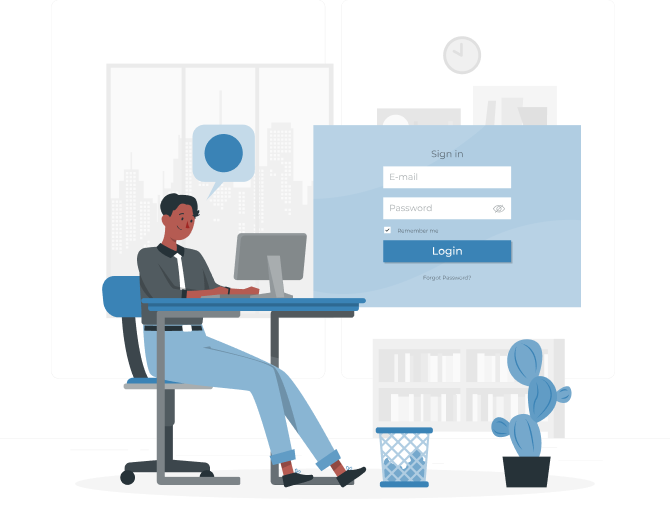
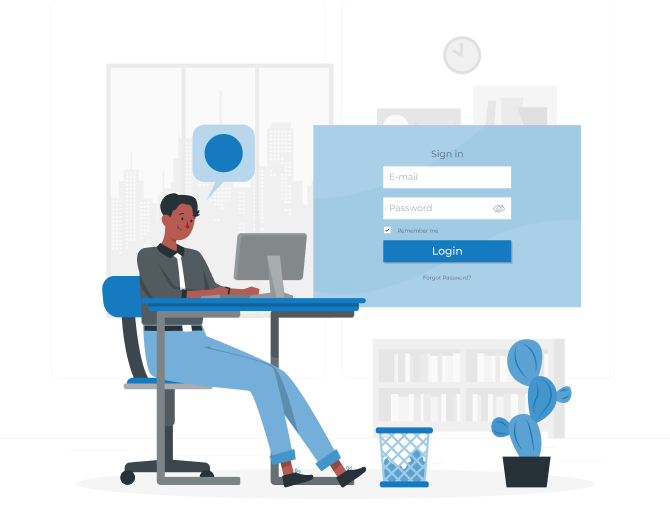
memperbaiki tampilan dashboard

diff --git a/assets/css/login.css b/assets/css/login.css
@@ -4,17 +4,29 @@
     padding: 0;
     box-sizing: border-box;
     font-family: "Inter",sans-serif;
-    background-color: #fdfff9;
+    overflow: hidden;
+}
+:root{
+    --background:#fdfff9;
+    --primary:#157ABF;
+    --accent:#BDD1FF;
+    --text:#252528;
+    --sidebar-color:#ffffff;
+    --bg-card:#fefefe;
+}
+body {
+    min-height: 100vh;
+    background-color: var(--background);
 }
 .navbar{
-    background-color: #fdfff9;
+    background-color: var(--background);
     box-shadow: 0px 4px 4px rgba(0, 0, 0, 0.25);
     padding: 10px 50px;
 }
 .navbar-brand{
     font-size: 32px;
     font-weight: 700;
-    color: #3A83B6;
+    color: var(--primary);
 }
 .container-content{
     margin: 0px 100px;
@@ -22,7 +34,7 @@
 .toggle{
     display: flex;
     align-items: center;
-    color:#3A83B6;
+    color:var(--primary);
     margin-right: 1rem;
 }
 input[type=checkbox]{
@@ -48,7 +60,7 @@ input[type=checkbox]{
     left: 5px;
     width: 10px;
     height: 10px;
-    background:#3A83B6;
+    background:var(--primary);
     border-radius: 50px;
     transition: 0.1s;
 }
@@ -80,7 +92,7 @@ input:checked + .switch::after{
     padding: 14px;
 }
 .btn-eyes{
-    background-color: #3A83B6;
+    background-color: var(--primary);
     border: none;
     padding: 0px 15px;
     border-radius: 5px;
@@ -92,9 +104,15 @@ input:checked + .switch::after{
 }
 .btn-sign-in{
     padding: 10px 30px;
-    background-color: #3A83B6;
+    background-color: var(--primary);
     border: none;
     border-radius: 8px;
+    color: #fdfff9;
+}
+.link-text {
+    text-decoration: none;
+    margin-left: 1rem;
+    color: #157ABF;
 }
 @media screen and (max-width: 768px){
     .container-content{

diff --git a/application/views/auth/registration.php b/application/views/auth/registration.php
@@ -1,0 +1,31 @@
+<!-- register -->
+<div class="container-content py-1">
+            <div class="row login p-5">
+                <div class="col-12 col-lg-6">
+                    <img src="<?= base_url('assets/img/Registration.png')?>" alt="computer_login" class="img-fluid">
+                </div>
+                <div class="col-12 col-lg-6 mb-3">
+                    <h1 class="title-login">Sign Up</h1>
+                    <form action="<?= base_url('auth/registration')?>" method="post">
+                        <div class="mb-3">
+                            <input type="name" class="form-control" id="name" placeholder="Enter Your Name" name="name">
+                        </div>
+                        <div class="mb-3">
+                            <input type="email" class="form-control" id="email" placeholder="Enter Your Email" name="email">
+                        </div>
+                        <div class="mb-3 row">
+                            <div class="col-sm-6">
+                                <input type="password" class="form-control" id="password1" placeholder="Password" name="password1">
+                            </div>
+                            <div class="col-sm-6">
+                                <input type="password" class="form-control" id="password2" placeholder="Repeat Password" name="password2">
+                            </div>
+                        </div>
+                    </form>
+                    <div class="submit d-flex justify-content-between align-items-center">
+                        <button type="submit" class="btn-sign-in d-block">Create Account</button>
+                        <a href="#" class="link-text">Already have account? Login!</a>
+                    </div>
+                </div>
+            </div>
+     <!-- register -->

diff --git a/application/views/templates/topbar.php b/application/views/templates/topbar.php
@@ -1,0 +1,31 @@
+<!-- topbar -->
+<section class="p-4 my-container">
+        <nav class="navbar bg-nav sticky-top">
+            <div class="container-fluid">
+                <div class="navbar-left">
+                    <button class="btn-menu" id="menu-btn"><i class='bx bx-menu bx-sm'></i></button>
+                    <form class="d-flex" role="search">
+                        <input class="form-control rounded-4" type="search" placeholder="Search" aria-label="Search">
+                        <button class="btn-search" type="submit"><i class='bx bx-search bx-sm' style="color:#fff;"></i></button>
+                    </form>
+                </div>
+                <div class="navbar-right">
+                    <div class="toggle">
+                        <i class='bx bx-moon bx-sm'></i>
+                        <input type="checkbox" id="switch">
+                        <label for="switch" class="switch" onclick="ubahMode()"></label>
+                    </div>
+                    <i class='bx bx-bell bx-sm bell'></i>
+                    <div class="dropdown">
+                        <button class="dropdown-toggle" type="button" data-bs-toggle="dropdown" aria-expanded="false">
+                            Admin
+                        </button>
+                        <ul class="dropdown-menu">
+                          <li><a class="dropdown-item" href="#">Profile</a></li>
+                          <li><a class="dropdown-item" href="#">Settings</a></li>
+                          <li><a class="dropdown-item" href="#">Log Out</a></li>
+                        </ul>
+                    </div>
+                </div>
+            </div>
+          </nav>

diff --git a/application/views/templates/sidebar.php b/application/views/templates/sidebar.php
@@ -1,0 +1,16 @@
+<!-- Sidebar -->
+    <div class="sidebar d-flex flex-column align-item-start" id="sidebar">
+        <h1 class="side-brand">Shoez.</h1>
+        <ul class="side-nav d-flex flex-column">
+            <li class="side-item"><a href="#" class="side-link active"><i class='bx bxs-dashboard icon-dash'></i>Dashboard</a></li>
+            <li class="side-item"><a href="#" class="side-link"><i class='bx bxs-category icon-dash'></i>Categories</a></li>
+            <li class="side-item"><a href="#" class="side-link"><i class='bx bxs-package icon-dash'></i>Product</a></li>
+            <li class="side-item"><a href="#" class="side-link"><i class='bx bxs-truck icon-dash'></i>Order</a></li>
+        </ul>
+        <div class="border-bottom m-3"></div>
+        <ul class="side-nav d-flex flex-column">
+            <li class="side-item"><a href="#" class="side-link"><i class='bx bxs-cog icon-dash'></i>Setting</a></li>
+            <li class="side-item"><a href="#" class="side-link"><i class='bx bxs-log-out icon-dash'></i>Log Out</a></li>
+        </ul>
+    </div>
+    <!-- Sidebar -->

diff --git a/application/views/auth/login.php b/application/views/auth/login.php
@@ -19,10 +19,11 @@
                         <div class="mb-3 forpass">
                             <span><a href="">Forgot Password</a></span>
                         </div>
-                        <div class="sign-in-apps d-flex">
+                        <div class="d-flex justify-content-between align-items-center">
                             <button type="submit" class="btn-sign-in">Sign In</button>
+                            <a href="#" class="link-text">Don't have account? Sign Up!</a>
                         </div>
                     </form>
                 </div>
             </div>
-     <!-- login  -->
+     <!-- login -->

diff --git a/application/views/templates/footer_dashbo.php b/application/views/templates/footer_dashbo.php
@@ -1,0 +1,7 @@
+    <script src="https://cdn.jsdelivr.net/npm/@popperjs/core@2.11.7/dist/umd/popper.min.js" integrity="sha384-zYPOMqeu1DAVkHiLqWBUTcbYfZ8osu1Nd6Z89ify25QV9guujx43ITvfi12/QExE" crossorigin="anonymous"></script>
+    <script src="https://cdn.jsdelivr.net/npm/bootstrap@5.3.0-alpha3/dist/js/bootstrap.min.js" integrity="sha384-Y4oOpwW3duJdCWv5ly8SCFYWqFDsfob/3GkgExXKV4idmbt98QcxXYs9UoXAB7BZ" crossorigin="anonymous"></script>
+    <script src="https://cdn.jsdelivr.net/npm/chart.js"></script>
+    <script src="<?php echo base_url('assets/js/dashboard.js')?>"></script>
+</body>
+
+</html>

diff --git a/application/views/templates/header_dashbo.php b/application/views/templates/header_dashbo.php
@@ -1,0 +1,14 @@
+<!DOCTYPE html>
+<html lang="en">
+
+<head>
+    <meta charset="UTF-8" />
+    <meta http-equiv="X-UA-Compatible" content="IE=edge" />
+    <meta name="viewport" content="width=device-width, initial-scale=1.0" />
+    <link href="https://cdn.jsdelivr.net/npm/bootstrap@5.0.0-beta3/dist/css/bootstrap.min.css" rel="stylesheet" />
+    <link href='https://unpkg.com/boxicons@2.1.4/css/boxicons.min.css' rel='stylesheet'>
+    <link rel="stylesheet" href="<?php echo base_url('assets/css/dashboard.css') . '?v=' . time();?>">
+    <title><?= $judul; ?></title>
+</head>
+
+<body>

diff --git a/application/controllers/User.php b/application/controllers/User.php
@@ -1,0 +1,13 @@
+<?php
+defined('BASEPATH') OR exit('No direct script access allowed');
+
+class User extends CI_Controller {
+    public function index(){
+        $data['judul'] = 'Dashboard Page';
+        $this->load->view('templates/header_dashbo', $data);
+        $this->load->view('templates/sidebar');
+        $this->load->view('templates/topbar');
+        $this->load->view('user/index');
+        $this->load->view('templates/footer_dashbo');
+    }
+}

diff --git a/application/controllers/Auth.php b/application/controllers/Auth.php
@@ -8,4 +8,10 @@ class Auth extends CI_Controller {
         $this->load->view('auth/login');
         $this->load->view('templates/auth_footer');
     }
+    public function registration(){
+        $data['judul'] = 'Registration Page';
+        $this->load->view('templates/auth_header', $data);
+        $this->load->view('auth/registration');
+        $this->load->view('templates/auth_footer');
+    }
 }

diff --git a/application/controllers/Home.php b/application/controllers/Home.php
@@ -2,13 +2,10 @@
 defined('BASEPATH') OR exit('No direct script access allowed');
 
 class Home extends CI_Controller{
-    public function index()
-    {
+    public function index(){
         $data['judul'] = 'Welcome to Shoez.';
         $this->load->view('templates/header', $data);
         $this->load->view('home/index');
         $this->load->view('templates/footer');
     }
 }
-
-?>

diff --git a/application/views/user/index.php b/application/views/user/index.php
@@ -1,0 +1,9 @@
+            <h1 class="my-3">Dashboard</h1>
+
+        <!-- main content -->
+        
+        </div>
+        <!-- main content -->
+    </section>
+
+    
